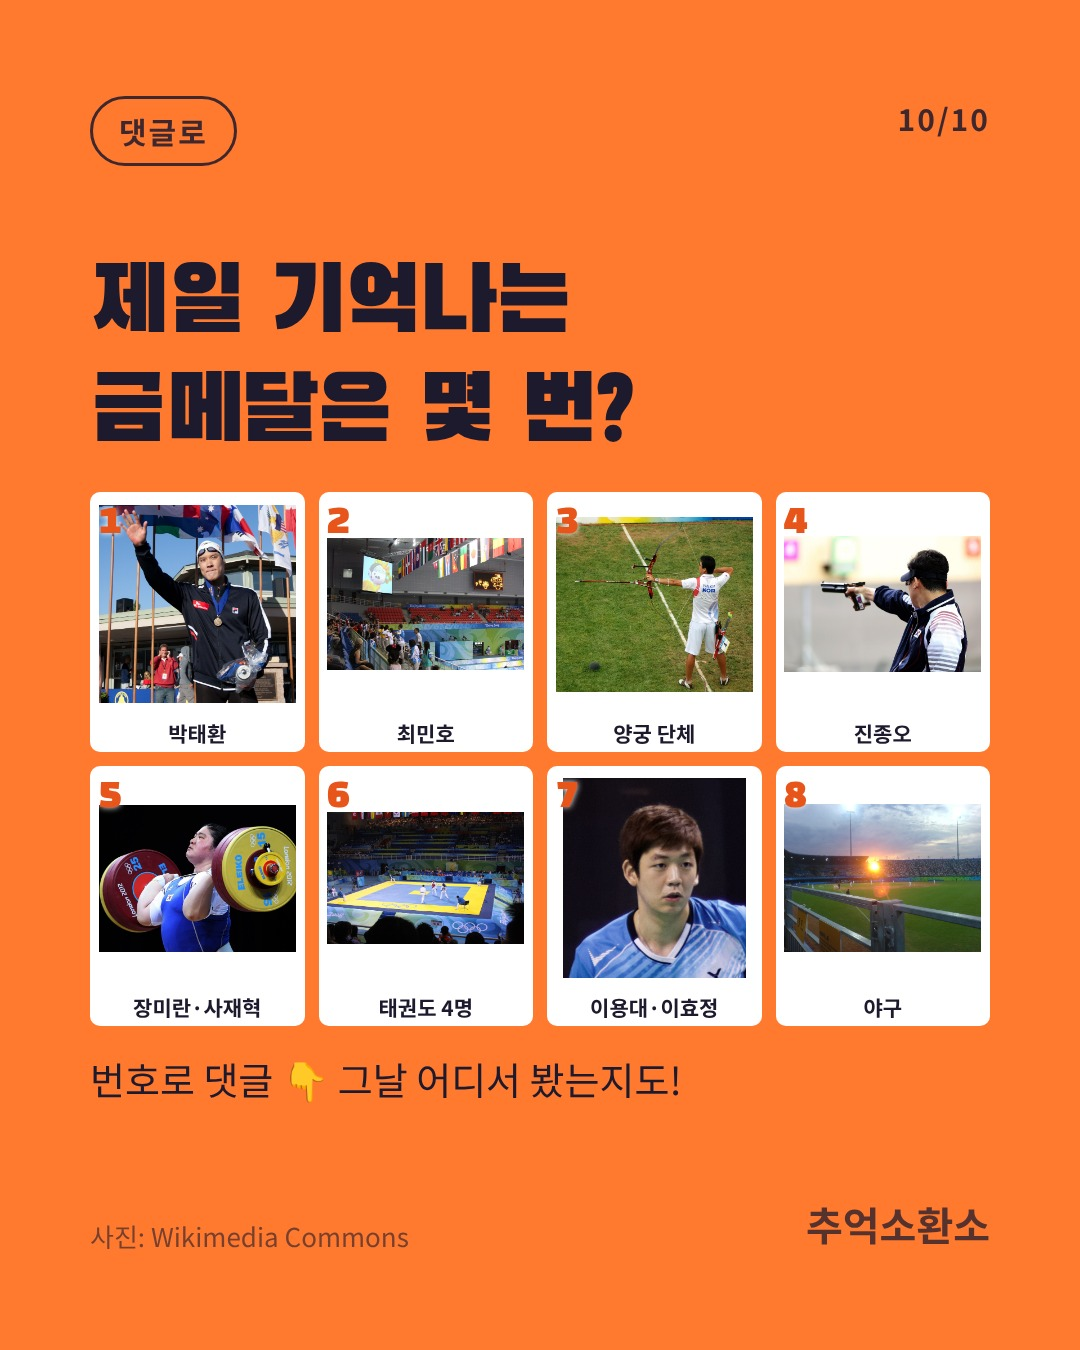
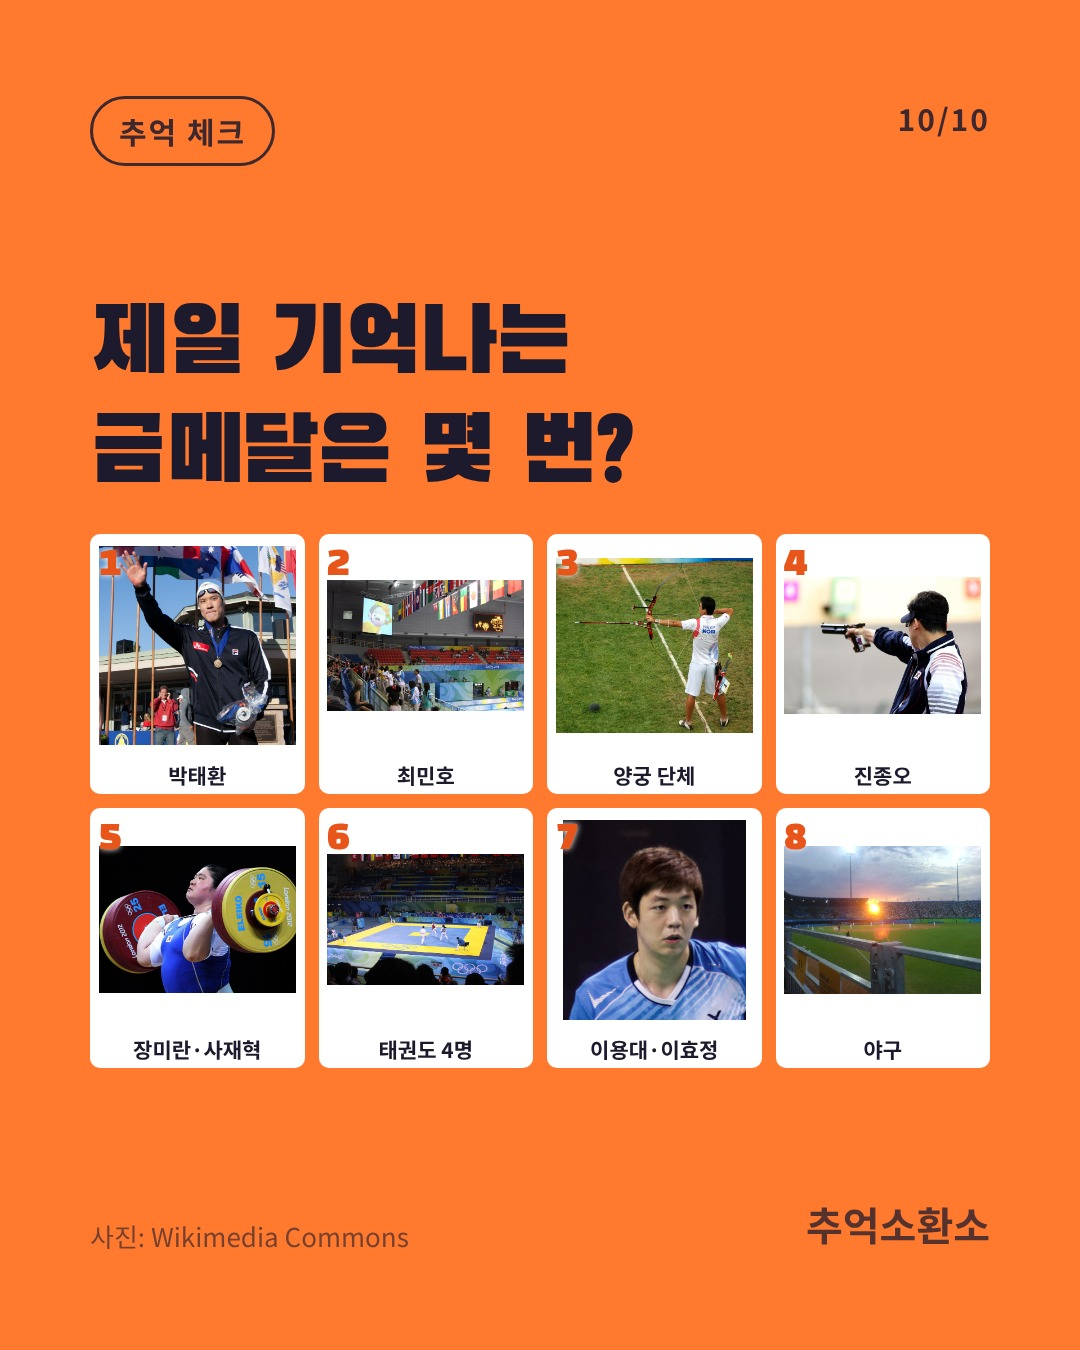
댓글 유도 문구 삭제: 대기 게시물 캡션·마지막 카드, 대기열 검사 추가
Claude-Session: https://claude.ai/code/session_01V7Tno7kVZwxNiPsBnWu4Y5

diff --git a/scripts/make_queue.py b/scripts/make_queue.py
@@ -4,7 +4,11 @@ import sys, os, re, glob, shutil, datetime
 src, start, md = sys.argv[1:4]; approve = "--approve" in sys.argv
 d0 = datetime.date.fromisoformat(start)
 text = open(md, encoding="utf-8").read()
+BAN = re.compile(r"댓글\s*(로|을|에|남|달|적)|댓글 👇|👇|남겨\s*주세요|적어\s*주세요|달아\s*주세요|태그해|알려\s*주세요|공유해\s*주세요|좋아요\s*(눌러|부탁)")
+# 대표 규칙(2026-11-27): 댓글·반응을 권유·유도하는 말 금지. "어떻게 생각하세요?" 같은 질문까지만 허용.
 caps = {int(m.group(1)): m.group(2).strip() for m in re.finditer(r"^## (\d+)일차[^\n]*\n(.*?)(?=^## |\Z)", text, re.S | re.M)}
+bad = {n: BAN.search(c).group(0) for n, c in caps.items() if BAN.search(c)}
+if bad: raise SystemExit(f"댓글 유도 문구 발견(대표 규칙 위반): {bad}")
 for f in glob.glob(f"{src}/day*_*.jpg"):
     m = re.match(r"day(\d+)_.*_(\d+)\.jpg", os.path.basename(f)); n, i = int(m.group(1)), int(m.group(2))
     day = (d0 + datetime.timedelta(days=n - 1)).isoformat(); out = f"queue/{day}"

diff --git a/CHANGELOG.md b/CHANGELOG.md
@@ -23,3 +23,9 @@
 ## 2026-11-26 예약 게시 보완
 - GitHub 예약 실행이 11/26 저녁 5회 모두 22:45까지 안 돌았음(전날도 약 9시간 지연). 22:47 KST 수동 실행으로 11/26 게시(media 18137770984742198).
 - 대책: Claude 예약 작업이 매일 20:27 KST에 publish.yml을 직접 실행. GitHub 예약은 예비로 유지(이미 게시된 날은 queue 폴더가 없어 중복 게시 없음).
+
+## 2026-11-27 댓글 유도 문구 삭제(대표 규칙)
+- 대표 지시: "댓글 달아 주세요/번호로 적어 주세요" 같은 반응 유도 문구는 반감을 살 수 있어 전부 삭제. "어떻게 생각하세요?" 같은 질문까지만 허용.
+- 11/27~11/30 대기 게시물: 캡션의 댓글 유도 줄 삭제(11/28은 질문으로 바꿈), 마지막 카드의 안내 문구 삭제·머리표 "댓글로"→"추억 체크"로 다시 만듦.
+- 카드 생성기 quizN: 머리표 변경, 안내 문구 비우면 표시 안 함.
+- make_queue.py: 캡션에 댓글 유도 문구가 있으면 대기열에 못 올리게 막음.
